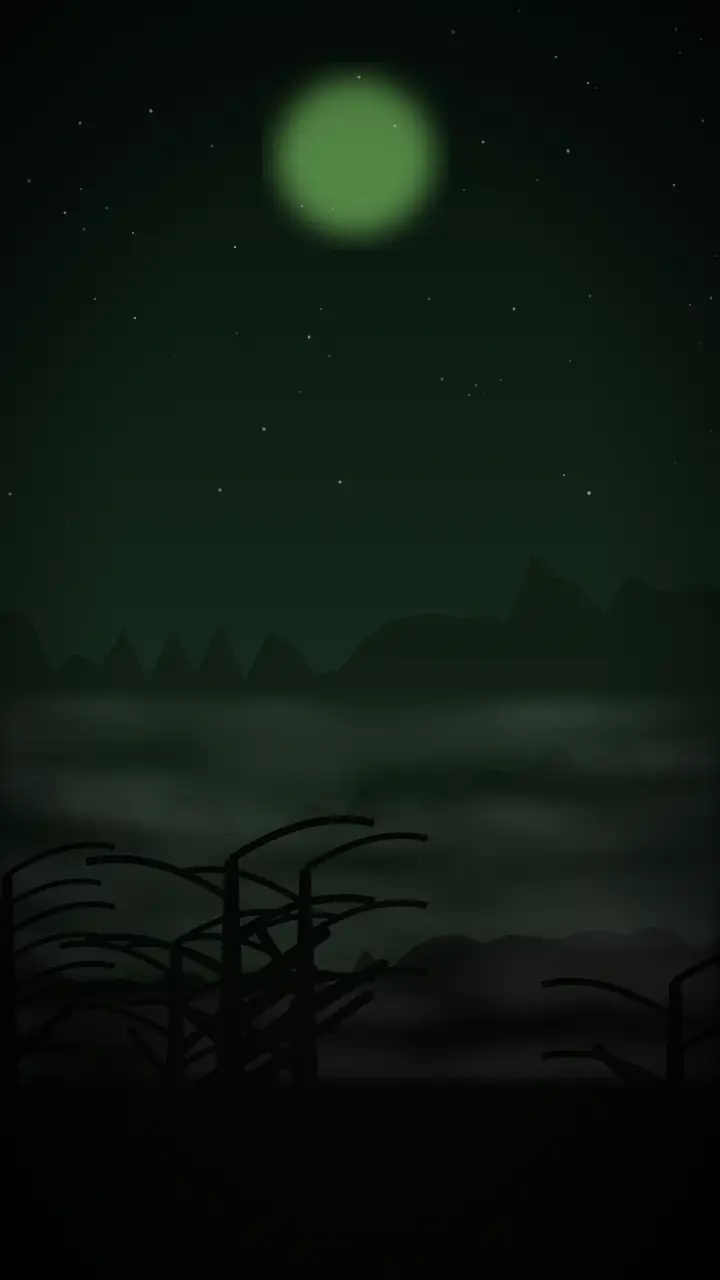
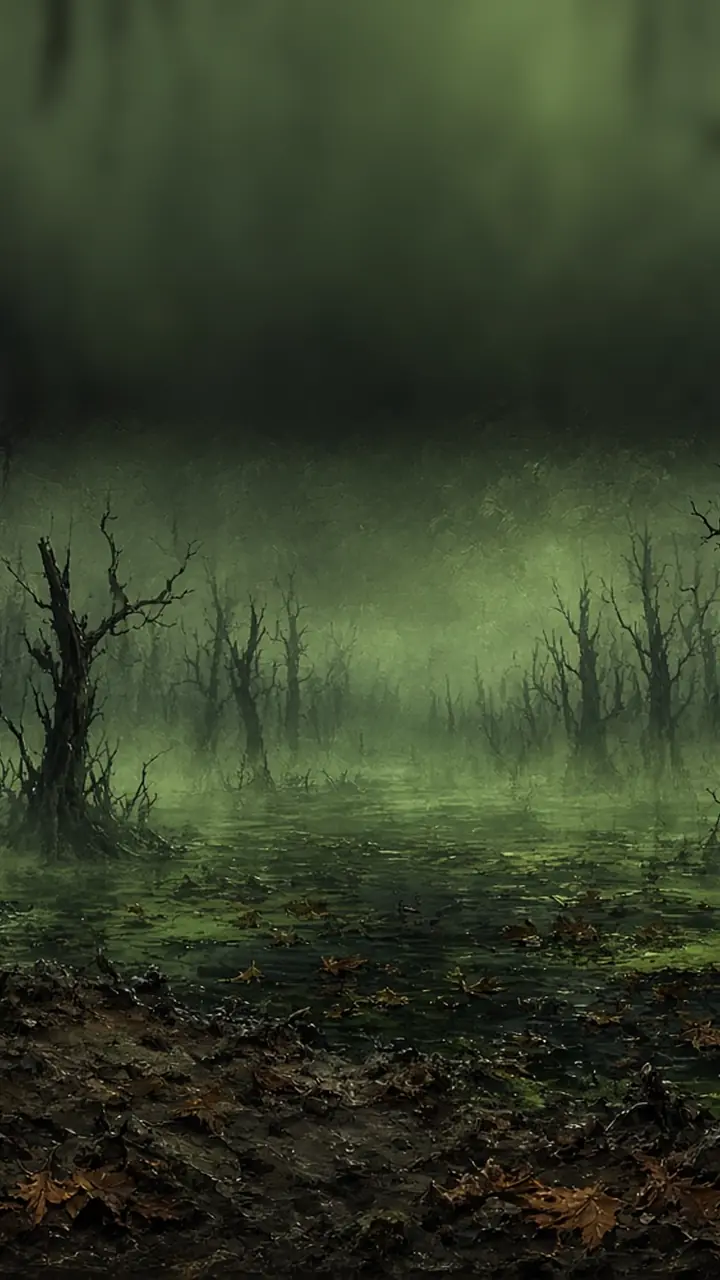
art: 第一章21张战斗背景换手绘竖版(修坤颓村黑塔占位)；技能栏隐藏默认「智能」字样(title提示)，其他模式改右上角标

diff --git a/ui_art.js b/ui_art.js
@@ -13,3 +13,8 @@ function uaFix(){try{
 }catch(e){console.warn('uaFix',e)}}
 {let q=0;const go=()=>{q=0;uaFix()};if(typeof MutationObserver!=='undefined'){const mo=new MutationObserver(()=>{if(!q){q=1;requestAnimationFrame(go)}});
  for(const id of ['panel','modal']){const el=document.getElementById(id);if(el)mo.observe(el,{childList:true,subtree:true})}};uaFix()}
+// 战斗技能栏：默认「智能」字样隐藏（改为按钮 title），其他模式缩成右上角角标，「关」保留（不改 skills.js）
+function uaSkb(){try{document.querySelectorAll('#skbar .skb>small').forEach(s=>{const t=s.textContent.trim(),b=s.parentNode;
+ if(s.dataset.uat===t)return;s.dataset.uat=t;s.classList.remove('uahide','uatag');
+ if(t==='智能'){s.classList.add('uahide');b.title='自动施法：智能'}else if(t==='关'){b.title='自动施法：关'}else{s.classList.add('uatag');b.title='自动施法：'+t}})}catch(e){console.warn('uaSkb',e)}}
+{let q=0,lt=0;const go=()=>{q=0;lt=performance.now();uaSkb()};if(typeof MutationObserver!=='undefined'){new MutationObserver(()=>{if(q)return;q=1;const w=Math.max(0,120-(performance.now()-lt));setTimeout(()=>requestAnimationFrame(go),w)}).observe(document.body,{childList:true,subtree:true})};uaSkb()}

diff --git a/art.css b/art.css
@@ -70,3 +70,6 @@ hr{border:0;height:16px;margin:6px 0;background:url(assets/ui2/divider.webp) cen
 #arow .ac{width:70px;border-width:8px}#arow .ac.hero{width:78px}
 #modal .mtitle+.gp{margin-top:20px}
 #toast{border:1px solid transparent;border-image:url(assets/ui2/title_9s.webp) 24 80 fill / 10px 30px stretch;background:none;padding:10px 30px;text-shadow:0 1px 2px #000}
+/* 技能栏：默认「智能」隐藏；其他模式右上角小角标 */
+#skbar .skb>small.uahide{display:none}
+#skbar .skb>small.uatag{left:auto;right:-3px;top:-3px;bottom:auto;font-size:8px;line-height:10px;padding:0 2px;border-radius:3px;background:rgba(0,0,0,.7);border:1px solid rgba(255,220,140,.4)}

diff --git a/TODO.md b/TODO.md
@@ -103,3 +103,4 @@
 - [x] sim.py 支持 PORT 环境变量、死亡区域含第1章；与游戏一致（无死亡经验惩罚）
 - [ ] 观察：尸爆等 AOE 价值上升（自动加点未投入尸爆，sim 未量化）；普通通关时长单次仍有 15h 离群
 - [x] 野蛮人技能图标 30 + 技能特效 18（assets/skills，manifest 已登记）(by 美术2)
+- [x] 第一章 21 张战斗背景换手绘（修坤颓村黑塔占位）+ 技能栏隐藏默认智能字样（美术）
